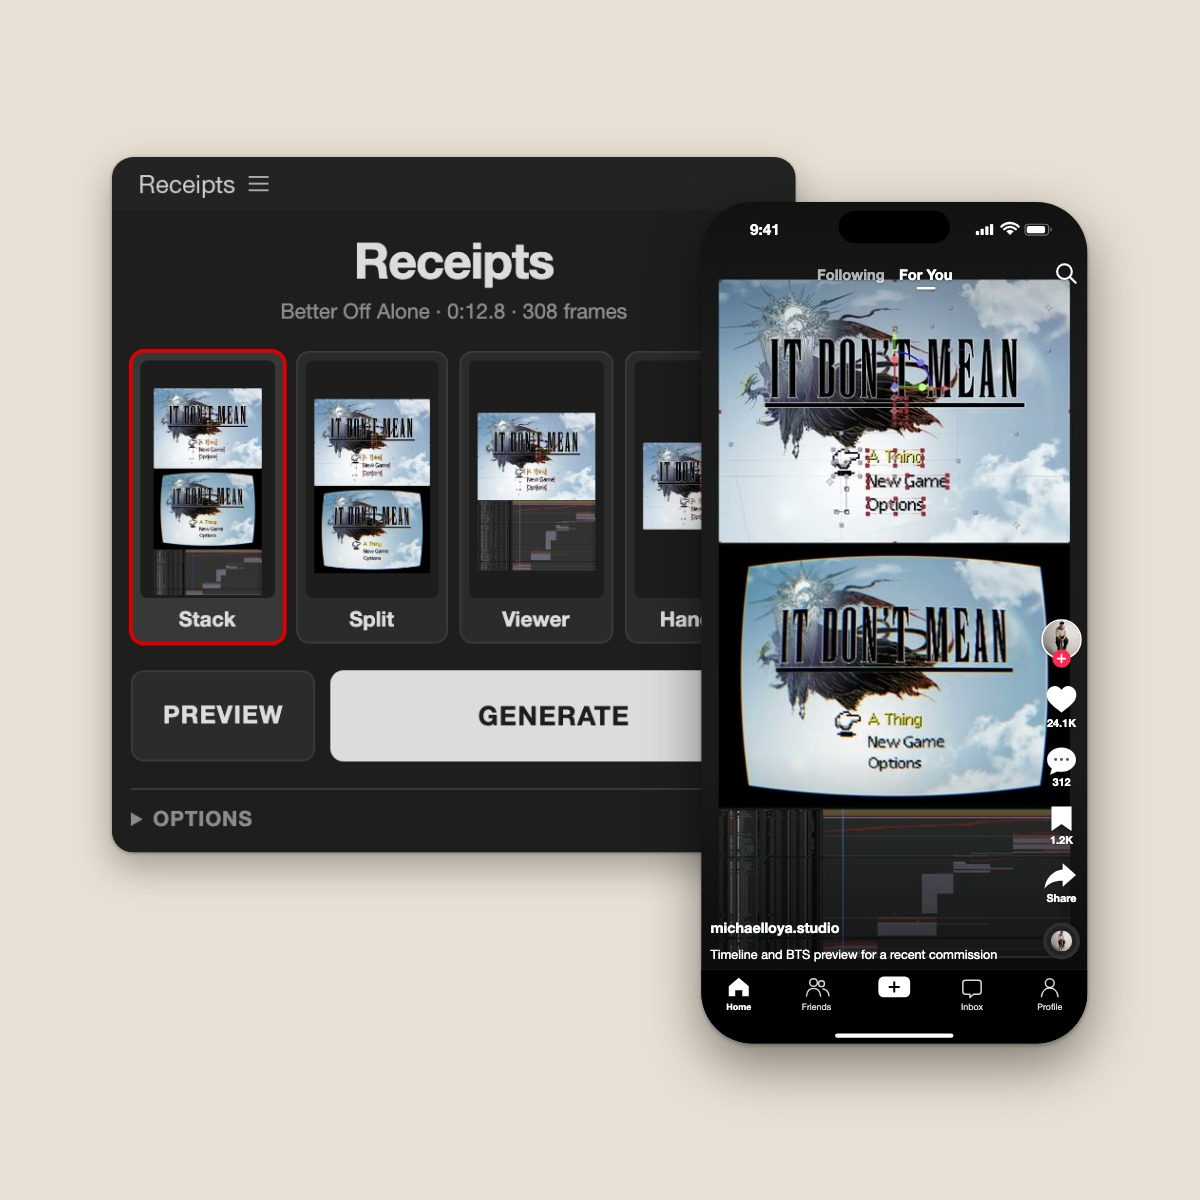
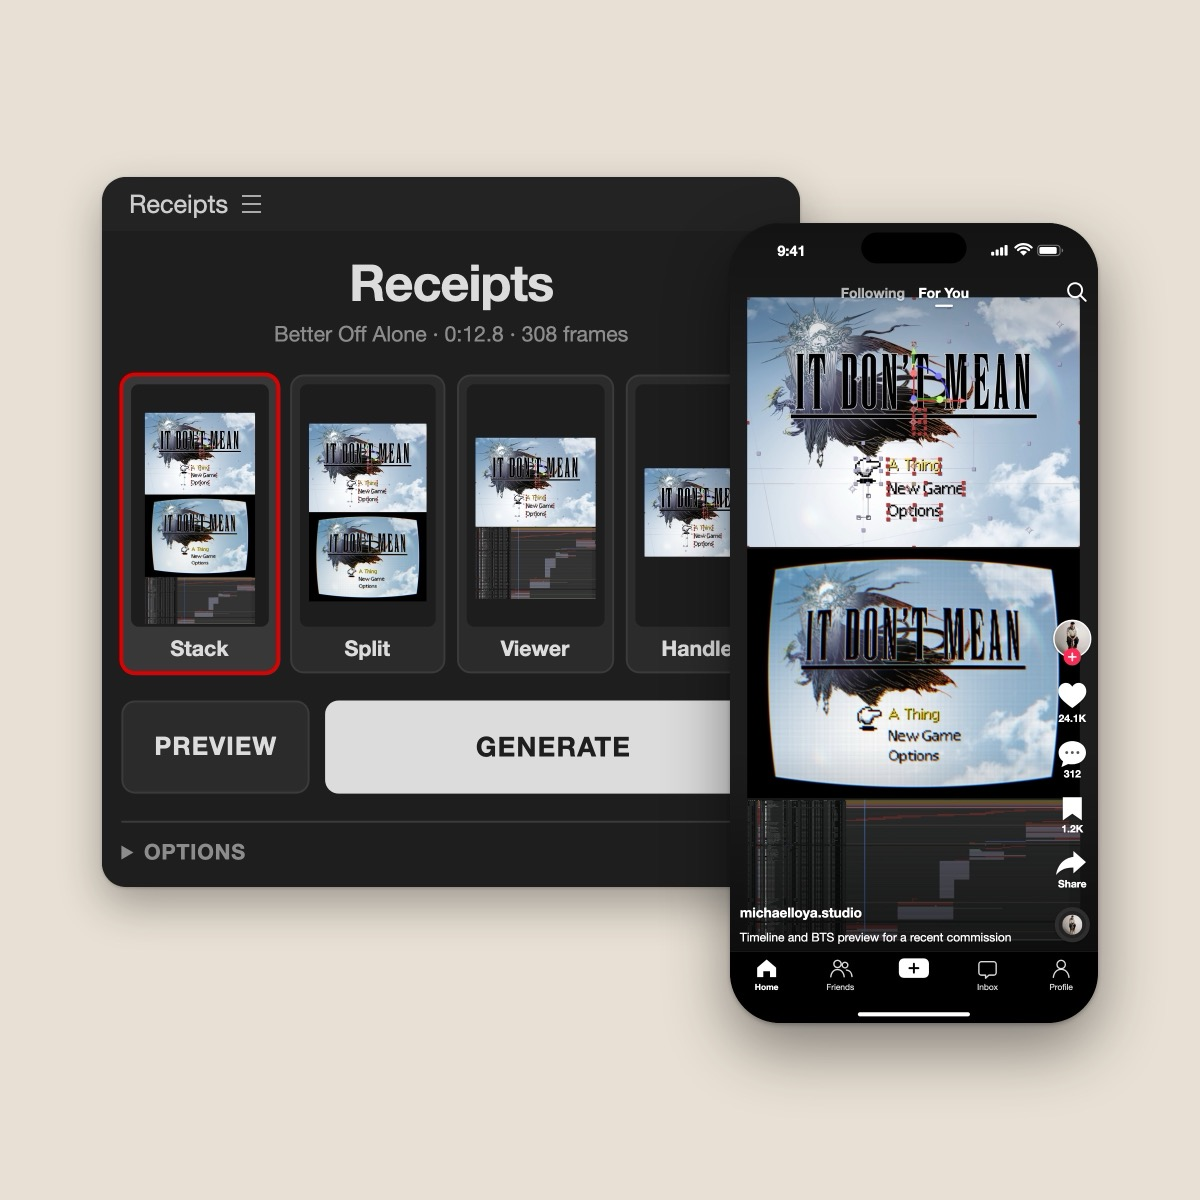
Receipts hero + tile: the cover's proportions

Changed region(s): [[0.0617, 0.1233, 0.925, 0.8942]]

diff --git a/assets/js/plugins.js b/assets/js/plugins.js
@@ -144,11 +144,11 @@ const plugins = [
     price: '$19.99',
     was: '$29.99',
     buy: 'https://michaelloyastudio.gumroad.com/l/receipts',
-    cover: 'projects/plugins/receipts-tile.jpg?v=6',   // the panel behind, the TikTok phone in front (receipts repo tools/promo/thumbnail.html)
+    cover: 'projects/plugins/receipts-tile.jpg?v=7',   // the panel behind, the TikTok phone in front (receipts repo tools/promo/cover/thumbnail.html)
     // coverVideo: off while Mike makes a new one (was receipts-square.mp4?v=3)
     shots: [
       // the hero: the panel behind, the TikTok phone in front (same picture as the Tools tile and Gumroad)
-      { src: 'projects/plugins/receipts-tile.jpg?v=6', alt: 'The Receipts panel, and the video it makes in the TikTok feed' },
+      { src: 'projects/plugins/receipts-tile.jpg?v=7', alt: 'The Receipts panel, and the video it makes in the TikTok feed' },
       { video: 'projects/plugins/receipts-pair.mp4?v=1', src: 'projects/plugins/receipts-pair.jpg?v=1', overlay: 'projects/plugins/receipts-social.svg?v=10', alt: 'A Receipts process video, and the same video in the TikTok feed' },
       { src: 'projects/plugins/receipts-ui-options.jpg?v=6', alt: 'The Receipts panel with its options open: on top, background, range, render and timeline' }
     ],

diff --git a/bodyarmor-powerade.html b/bodyarmor-powerade.html
@@ -19,7 +19,7 @@
 <link rel="preconnect" href="https://fonts.googleapis.com">
 <link rel="preconnect" href="https://fonts.gstatic.com" crossorigin>
 <link href="https://fonts.googleapis.com/css2?family=Inter:ital,wght@0,300..700;1,300..700&display=swap" rel="stylesheet">
-<link rel="stylesheet" href="assets/css/site.css?v=381">
+<link rel="stylesheet" href="assets/css/site.css?v=382">
 <style>
   /* First paint: the header (logo + menu) stays put from page to page; the
      project itself builds top down (site.css, .project load-in). */
@@ -100,9 +100,9 @@
 </footer>
 
 <script>window.PROJECT_SLUG = "bodyarmor-powerade";</script>
-<script src="assets/js/projects.js?v=381"></script>
-<script src="assets/js/project-page.js?v=381"></script>
-<script src="assets/js/site.js?v=381"></script>
+<script src="assets/js/projects.js?v=382"></script>
+<script src="assets/js/project-page.js?v=382"></script>
+<script src="assets/js/site.js?v=382"></script>
 <!-- GoatCounter: page views, no cookies. Skips itself on localhost. -->
 <script data-goatcounter="https://michaelloya.goatcounter.com/count" async src="https://gc.zgo.at/count.js"></script>
 </body>

diff --git a/university-union.html b/university-union.html
@@ -19,7 +19,7 @@
 <link rel="preconnect" href="https://fonts.googleapis.com">
 <link rel="preconnect" href="https://fonts.gstatic.com" crossorigin>
 <link href="https://fonts.googleapis.com/css2?family=Inter:ital,wght@0,300..700;1,300..700&display=swap" rel="stylesheet">
-<link rel="stylesheet" href="assets/css/site.css?v=381">
+<link rel="stylesheet" href="assets/css/site.css?v=382">
 <style>
   /* First paint: the header (logo + menu) stays put from page to page; the
      project itself builds top down (site.css, .project load-in). */
@@ -100,9 +100,9 @@
 </footer>
 
 <script>window.PROJECT_SLUG = "university-union";</script>
-<script src="assets/js/projects.js?v=381"></script>
-<script src="assets/js/project-page.js?v=381"></script>
-<script src="assets/js/site.js?v=381"></script>
+<script src="assets/js/projects.js?v=382"></script>
+<script src="assets/js/project-page.js?v=382"></script>
+<script src="assets/js/site.js?v=382"></script>
 <!-- GoatCounter: page views, no cookies. Skips itself on localhost. -->
 <script data-goatcounter="https://michaelloya.goatcounter.com/count" async src="https://gc.zgo.at/count.js"></script>
 </body>

diff --git a/where-it-hurts.html b/where-it-hurts.html
@@ -19,7 +19,7 @@
 <link rel="preconnect" href="https://fonts.googleapis.com">
 <link rel="preconnect" href="https://fonts.gstatic.com" crossorigin>
 <link href="https://fonts.googleapis.com/css2?family=Inter:ital,wght@0,300..700;1,300..700&display=swap" rel="stylesheet">
-<link rel="stylesheet" href="assets/css/site.css?v=381">
+<link rel="stylesheet" href="assets/css/site.css?v=382">
 <style>
   /* First paint: the header (logo + menu) stays put from page to page; the
      project itself builds top down (site.css, .project load-in). */
@@ -100,9 +100,9 @@
 </footer>
 
 <script>window.PROJECT_SLUG = "where-it-hurts";</script>
-<script src="assets/js/projects.js?v=381"></script>
-<script src="assets/js/project-page.js?v=381"></script>
-<script src="assets/js/site.js?v=381"></script>
+<script src="assets/js/projects.js?v=382"></script>
+<script src="assets/js/project-page.js?v=382"></script>
+<script src="assets/js/site.js?v=382"></script>
 <!-- GoatCounter: page views, no cookies. Skips itself on localhost. -->
 <script data-goatcounter="https://michaelloya.goatcounter.com/count" async src="https://gc.zgo.at/count.js"></script>
 </body>

diff --git a/miscellaneous.html b/miscellaneous.html
@@ -19,7 +19,7 @@
 <link rel="preconnect" href="https://fonts.googleapis.com">
 <link rel="preconnect" href="https://fonts.gstatic.com" crossorigin>
 <link href="https://fonts.googleapis.com/css2?family=Inter:ital,wght@0,300..700;1,300..700&display=swap" rel="stylesheet">
-<link rel="stylesheet" href="assets/css/site.css?v=381">
+<link rel="stylesheet" href="assets/css/site.css?v=382">
 <style>
   /* First paint: the header (logo + menu) stays put from page to page; the
      project itself builds top down (site.css, .project load-in). */
@@ -100,9 +100,9 @@
 </footer>
 
 <script>window.PROJECT_SLUG = "miscellaneous";</script>
-<script src="assets/js/projects.js?v=381"></script>
-<script src="assets/js/project-page.js?v=381"></script>
-<script src="assets/js/site.js?v=381"></script>
+<script src="assets/js/projects.js?v=382"></script>
+<script src="assets/js/project-page.js?v=382"></script>
+<script src="assets/js/site.js?v=382"></script>
 <!-- GoatCounter: page views, no cookies. Skips itself on localhost. -->
 <script data-goatcounter="https://michaelloya.goatcounter.com/count" async src="https://gc.zgo.at/count.js"></script>
 </body>

diff --git a/album-covers.html b/album-covers.html
@@ -19,7 +19,7 @@
 <link rel="preconnect" href="https://fonts.googleapis.com">
 <link rel="preconnect" href="https://fonts.gstatic.com" crossorigin>
 <link href="https://fonts.googleapis.com/css2?family=Inter:ital,wght@0,300..700;1,300..700&display=swap" rel="stylesheet">
-<link rel="stylesheet" href="assets/css/site.css?v=381">
+<link rel="stylesheet" href="assets/css/site.css?v=382">
 <style>
   /* First paint: the header (logo + menu) stays put from page to page; the
      project itself builds top down (site.css, .project load-in). */
@@ -100,9 +100,9 @@
 </footer>
 
 <script>window.PROJECT_SLUG = "album-covers";</script>
-<script src="assets/js/projects.js?v=381"></script>
-<script src="assets/js/project-page.js?v=381"></script>
-<script src="assets/js/site.js?v=381"></script>
+<script src="assets/js/projects.js?v=382"></script>
+<script src="assets/js/project-page.js?v=382"></script>
+<script src="assets/js/site.js?v=382"></script>
 <!-- GoatCounter: page views, no cookies. Skips itself on localhost. -->
 <script data-goatcounter="https://michaelloya.goatcounter.com/count" async src="https://gc.zgo.at/count.js"></script>
 </body>

diff --git a/loya.html b/loya.html
@@ -19,7 +19,7 @@
 <link rel="preconnect" href="https://fonts.googleapis.com">
 <link rel="preconnect" href="https://fonts.gstatic.com" crossorigin>
 <link href="https://fonts.googleapis.com/css2?family=Inter:ital,wght@0,300..700;1,300..700&display=swap" rel="stylesheet">
-<link rel="stylesheet" href="assets/css/site.css?v=381">
+<link rel="stylesheet" href="assets/css/site.css?v=382">
 <style>
   /* First paint: the header (logo + menu) stays put from page to page; the
      project itself builds top down (site.css, .project load-in). */
@@ -100,9 +100,9 @@
 </footer>
 
 <script>window.PROJECT_SLUG = "loya";</script>
-<script src="assets/js/projects.js?v=381"></script>
-<script src="assets/js/project-page.js?v=381"></script>
-<script src="assets/js/site.js?v=381"></script>
+<script src="assets/js/projects.js?v=382"></script>
+<script src="assets/js/project-page.js?v=382"></script>
+<script src="assets/js/site.js?v=382"></script>
 <!-- GoatCounter: page views, no cookies. Skips itself on localhost. -->
 <script data-goatcounter="https://michaelloya.goatcounter.com/count" async src="https://gc.zgo.at/count.js"></script>
 </body>

diff --git a/index.html b/index.html
@@ -19,7 +19,7 @@
 <link rel="preconnect" href="https://fonts.googleapis.com">
 <link rel="preconnect" href="https://fonts.gstatic.com" crossorigin>
 <link rel="stylesheet" href="https://use.typekit.net/oft2xxg.css">
-<link rel="stylesheet" href="assets/css/site.css?v=381">
+<link rel="stylesheet" href="assets/css/site.css?v=382">
 <style>
   /* First-paint guard. Applies before anything else resolves, so the page
      never flashes raw content before the load-in animations start.
@@ -127,9 +127,9 @@
 </footer>
 
 <!-- ══ PROJECT DETAIL ══ -->
-<script src="assets/js/projects.js?v=381"></script>
-<script src="assets/js/hero.js?v=381"></script>
-<script src="assets/js/site.js?v=381"></script>
+<script src="assets/js/projects.js?v=382"></script>
+<script src="assets/js/hero.js?v=382"></script>
+<script src="assets/js/site.js?v=382"></script>
 <!-- GoatCounter: page views, no cookies. Skips itself on localhost. -->
 <script data-goatcounter="https://michaelloya.goatcounter.com/count" async src="https://gc.zgo.at/count.js"></script>
 </body>

diff --git a/clippings.html b/clippings.html
@@ -18,7 +18,7 @@
 
 <link rel="preconnect" href="https://fonts.googleapis.com">
 <link rel="preconnect" href="https://fonts.gstatic.com" crossorigin>
-<link rel="stylesheet" href="assets/css/site.css?v=381">
+<link rel="stylesheet" href="assets/css/site.css?v=382">
 <style>
   /* First-paint guard. Applies before anything else resolves, so the page
      never flashes raw content before the load-in animations start.
@@ -101,9 +101,9 @@
 </footer>
 
 <script>window.PLUGIN_SLUG = "clippings";</script>
-<script src="assets/js/plugins.js?v=381"></script>
-<script src="assets/js/plugin-page.js?v=381"></script>
-<script src="assets/js/site.js?v=381"></script>
+<script src="assets/js/plugins.js?v=382"></script>
+<script src="assets/js/plugin-page.js?v=382"></script>
+<script src="assets/js/site.js?v=382"></script>
 <!-- GoatCounter: page views, no cookies. Skips itself on localhost. -->
 <script data-goatcounter="https://michaelloya.goatcounter.com/count" async src="https://gc.zgo.at/count.js"></script>
 </body>

diff --git a/receipts.html b/receipts.html
@@ -18,7 +18,7 @@
 
 <link rel="preconnect" href="https://fonts.googleapis.com">
 <link rel="preconnect" href="https://fonts.gstatic.com" crossorigin>
-<link rel="stylesheet" href="assets/css/site.css?v=381">
+<link rel="stylesheet" href="assets/css/site.css?v=382">
 <style>
   /* First-paint guard. Applies before anything else resolves, so the page
      never flashes raw content before the load-in animations start.
@@ -101,9 +101,9 @@
 </footer>
 
 <script>window.PLUGIN_SLUG = "receipts";</script>
-<script src="assets/js/plugins.js?v=381"></script>
-<script src="assets/js/plugin-page.js?v=381"></script>
-<script src="assets/js/site.js?v=381"></script>
+<script src="assets/js/plugins.js?v=382"></script>
+<script src="assets/js/plugin-page.js?v=382"></script>
+<script src="assets/js/site.js?v=382"></script>
 <!-- GoatCounter: page views, no cookies. Skips itself on localhost. -->
 <script data-goatcounter="https://michaelloya.goatcounter.com/count" async src="https://gc.zgo.at/count.js"></script>
 </body>

diff --git a/gh-midi.html b/gh-midi.html
@@ -18,7 +18,7 @@
 
 <link rel="preconnect" href="https://fonts.googleapis.com">
 <link rel="preconnect" href="https://fonts.gstatic.com" crossorigin>
-<link rel="stylesheet" href="assets/css/site.css?v=381">
+<link rel="stylesheet" href="assets/css/site.css?v=382">
 <style>
   /* First-paint guard. Applies before anything else resolves, so the page
      never flashes raw content before the load-in animations start.
@@ -101,9 +101,9 @@
 </footer>
 
 <script>window.PLUGIN_SLUG = "gh-midi";</script>
-<script src="assets/js/plugins.js?v=381"></script>
-<script src="assets/js/plugin-page.js?v=381"></script>
-<script src="assets/js/site.js?v=381"></script>
+<script src="assets/js/plugins.js?v=382"></script>
+<script src="assets/js/plugin-page.js?v=382"></script>
+<script src="assets/js/site.js?v=382"></script>
 <!-- GoatCounter: page views, no cookies. Skips itself on localhost. -->
 <script data-goatcounter="https://michaelloya.goatcounter.com/count" async src="https://gc.zgo.at/count.js"></script>
 </body>

diff --git a/all.html b/all.html
@@ -18,7 +18,7 @@
 
 <link rel="preconnect" href="https://fonts.googleapis.com">
 <link rel="preconnect" href="https://fonts.gstatic.com" crossorigin>
-<link rel="stylesheet" href="assets/css/site.css?v=381">
+<link rel="stylesheet" href="assets/css/site.css?v=382">
 <style>
   /* First-paint guard. Applies before anything else resolves, so the page
      never flashes raw content before the load-in animations start.
@@ -97,9 +97,9 @@
   </div>
 </footer>
 
-<script src="assets/js/projects.js?v=381"></script>
-<script src="assets/js/plugins.js?v=381"></script>
-<script src="assets/js/site.js?v=381"></script>
+<script src="assets/js/projects.js?v=382"></script>
+<script src="assets/js/plugins.js?v=382"></script>
+<script src="assets/js/site.js?v=382"></script>
 <!-- GoatCounter: page views, no cookies. Skips itself on localhost. -->
 <script data-goatcounter="https://michaelloya.goatcounter.com/count" async src="https://gc.zgo.at/count.js"></script>
 </body>
